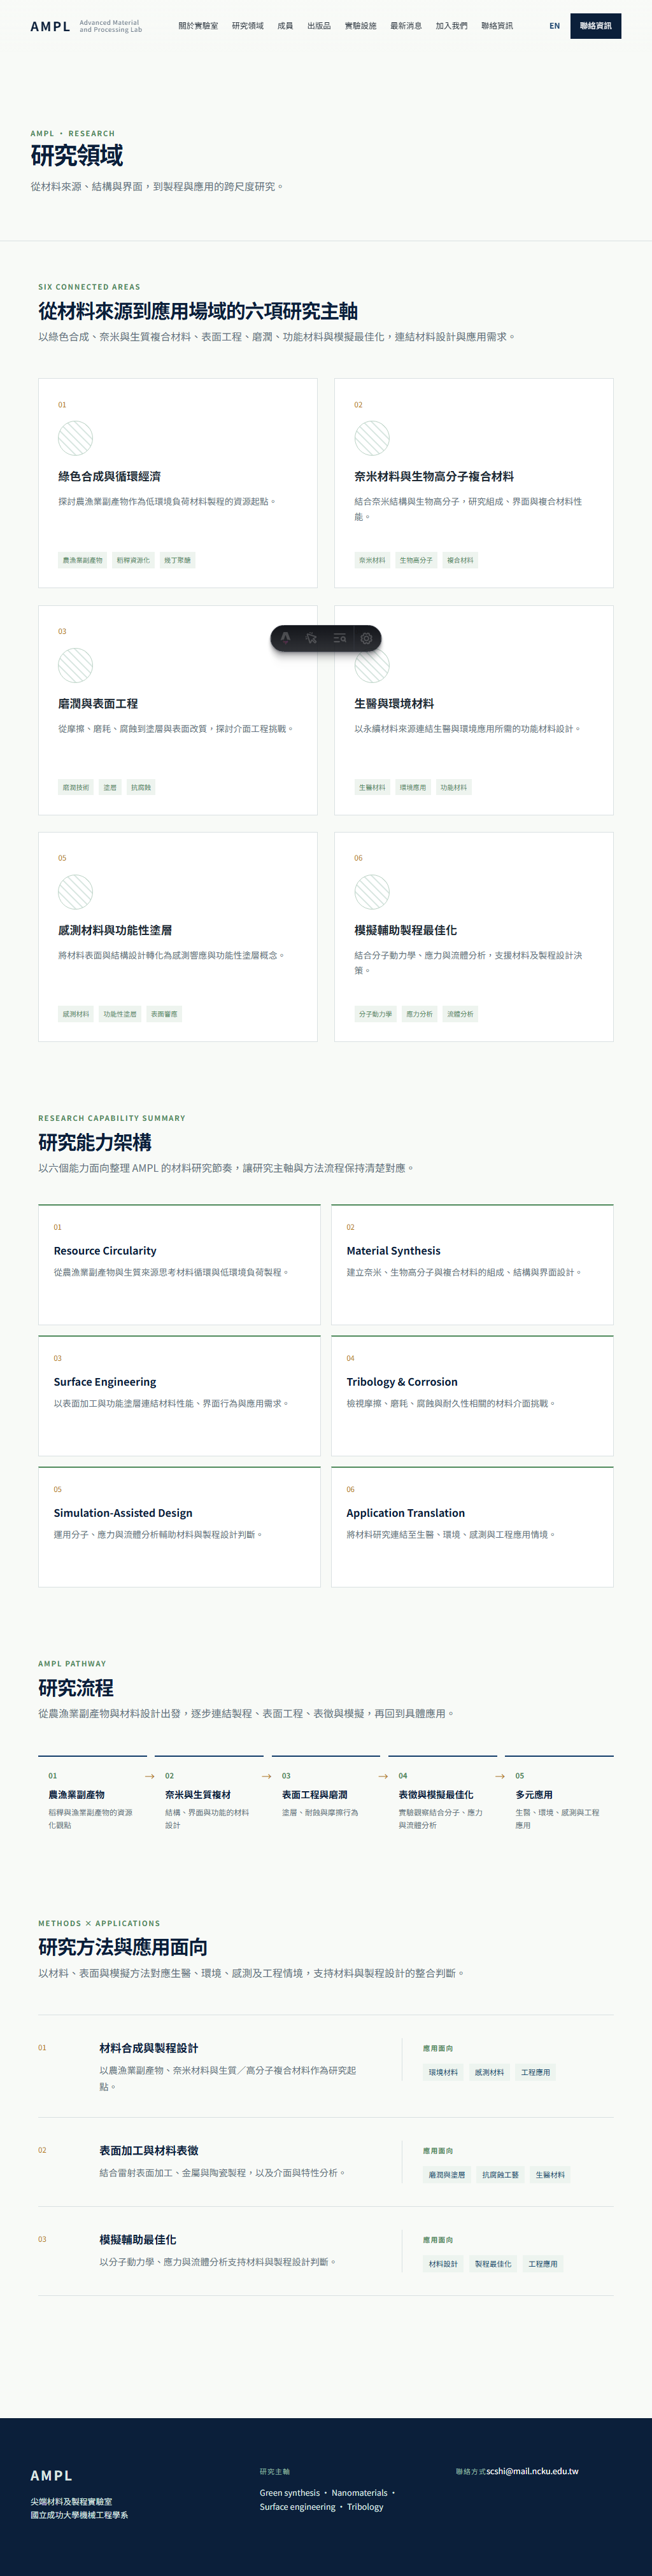
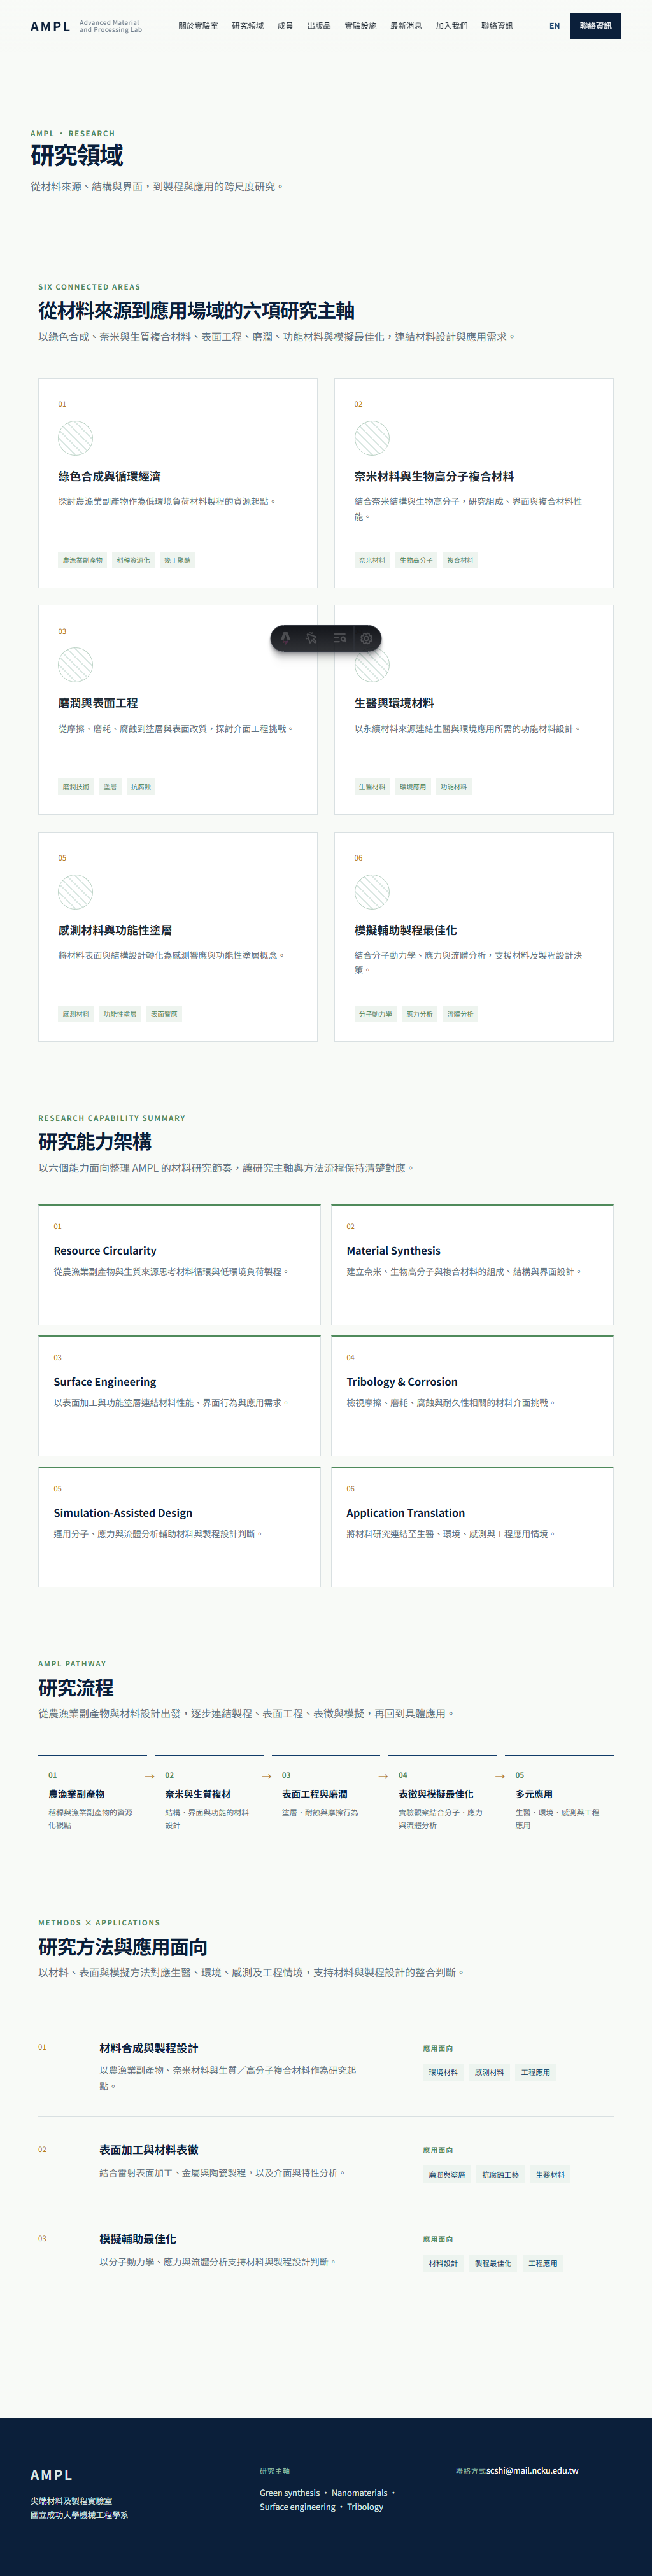
Keep Research lead heading on one line

diff --git a/tests/routes.spec.ts b/tests/routes.spec.ts
@@ -106,6 +106,14 @@ test('Research capability summary stays localized and responsive', async ({ page
   }
 });
 
+test('Chinese Research lead heading keeps its final character on the same desktop line', async ({ page }) => {
+  await page.setViewportSize({ width: 1280, height: 900 });
+  await page.goto('/research');
+  const heading = page.getByRole('heading', { name: '從材料來源到應用場域的六項研究主軸' });
+  const box = await heading.boundingBox();
+  expect(box?.height).toBeLessThan(75);
+});
+
 for (const width of [1440, 1280, 1024, 768, 430, 390, 360]) {
   test(`home has no horizontal overflow at ${width}px`, async ({ page }) => {
     await page.setViewportSize({ width, height: 900 });

diff --git a/src/styles/global.css b/src/styles/global.css
@@ -7,3 +7,4 @@ footer{background:var(--navy);color:#dce7e3;padding:4.5rem max(3rem,calc((100vw 
 .hero h1{font-size:clamp(2.55rem,4.65vw,5rem)}.hero .subhead{letter-spacing:.055em;font-weight:600;line-height:1.55}.button.primary:hover{background:#123c69;border-color:#123c69}.button.primary:focus-visible{background:#123c69;color:#fff}.profile-grid{display:grid;grid-template-columns:repeat(3,minmax(0,1fr));gap:1.25rem;margin:0 0 4rem}.profile-card{background:#fff;border:1px solid var(--line);border-top:2px solid var(--blue);padding:1.55rem;min-height:270px}.profile-card h3{margin:0 0 1rem;color:var(--navy);font-size:1.12rem}.profile-card ul{padding:0;margin:0;list-style:none}.profile-card li{position:relative;padding:.55rem 0 .55rem 1rem;color:var(--muted);font-size:.86rem;line-height:1.6}.profile-card li:before{content:'';position:absolute;left:0;top:1.12rem;width:4px;height:4px;border-radius:50%;background:var(--green)}.methods-applications{border-top:1px solid var(--line);margin-bottom:4rem}.methods-row{display:grid;grid-template-columns:58px minmax(0,1fr) minmax(180px,.7fr);gap:1.25rem;padding:1.6rem 0;border-bottom:1px solid var(--line);align-items:start}.methods-row .card-index{position:static;color:var(--gold);padding-top:.3rem}.methods-row h3{margin:0;color:var(--navy);font-size:1.08rem}.methods-row p{margin:.5rem 0 0;color:var(--muted);font-size:.9rem}.application-list{border-left:1px solid var(--line);padding-left:1.25rem}.application-list>span{font-size:.68rem;color:var(--green);font-weight:700;letter-spacing:.1em;text-transform:uppercase}.application-list ul{display:flex;flex-wrap:wrap;gap:.35rem;list-style:none;padding:0;margin:.55rem 0 0}.application-list li{color:var(--blue);font-size:.72rem;background:#edf4ef;padding:.22rem .45rem}.publication-links{display:flex;gap:.7rem;flex-wrap:wrap;padding:1rem;border-bottom:1px solid var(--line);background:#fff}.publication-links a{font-size:.8rem;color:var(--blue);font-weight:700;border-bottom:1px solid transparent}.publication-links a:hover,.publication-links a:focus-visible{border-bottom-color:var(--green)}.contact-grid--detailed{margin-bottom:1.25rem}.contact-grid--detailed article{min-height:140px}.external-map-link{display:inline-flex;align-items:center;gap:.5rem;margin-bottom:3rem}.external-map-link span,.publication-links span{font-size:1em}@media(max-width:900px){.profile-grid{grid-template-columns:1fr}.profile-card{min-height:0}.methods-row{grid-template-columns:44px 1fr}.application-list{grid-column:2;border-left:0;border-top:1px solid var(--line);padding:1rem 0 0}}@media(max-width:600px){.hero h1{font-size:2.55rem}.methods-row{grid-template-columns:1fr;gap:.65rem}.methods-row .card-index{padding:0}.application-list{grid-column:auto}.publication-links{display:grid;grid-template-columns:1fr}.contact-grid--detailed article{min-height:120px}.external-map-link{width:100%;justify-content:center}}
 .page-content .research-grid{grid-template-columns:repeat(2,minmax(0,1fr));gap:1.65rem;margin-top:3.25rem;margin-bottom:6.5rem}.page-content .research-card,.page-content .research-card:nth-child(n){grid-column:auto;min-height:330px;padding:1.9rem}.page-content .research-card .tag-list{padding-top:1.5rem;gap:.5rem}.page-content .research-card .tag-list span{white-space:normal}.page-content .pipeline{margin:3.25rem 0 7rem}.page-content .methods-applications{margin-top:3.25rem;margin-bottom:5rem}.methods-row{grid-template-columns:64px minmax(0,1fr) minmax(220px,.75fr);gap:2rem;padding:2.25rem 0}.methods-row p{max-width:52ch;line-height:1.75}.application-list{padding-left:2rem}.application-list ul{gap:.55rem;margin-top:.8rem}.application-list li{padding:.32rem .55rem;line-height:1.45}@media(min-width:1440px){.page-content .research-grid{grid-template-columns:repeat(3,minmax(0,1fr));gap:1.5rem}}@media(max-width:900px){.methods-row{grid-template-columns:48px minmax(0,1fr);gap:1.25rem;padding:2rem 0}.application-list{padding:1.25rem 0 0}.application-list ul{gap:.5rem}}@media(max-width:600px){.page-content .research-grid{grid-template-columns:1fr;gap:1rem;margin-top:2.25rem;margin-bottom:4.5rem}.page-content .research-card,.page-content .research-card:nth-child(n){min-height:285px;padding:1.5rem}.page-content .pipeline{margin:2.5rem 0 4.75rem}.methods-row{grid-template-columns:1fr;gap:.85rem;padding:1.7rem 0}.application-list{grid-column:auto}.application-list ul{gap:.45rem}}
 .capability-summary{list-style:none;padding:0;margin:2.75rem 0 6.5rem;display:grid;grid-template-columns:repeat(2,minmax(0,1fr));gap:1rem}.capability-summary li{background:#fff;border:1px solid var(--line);border-top:2px solid var(--green);padding:1.45rem;min-height:190px;display:flex;flex-direction:column;transition:transform .25s,box-shadow .25s}.capability-summary li:hover{transform:translateY(-4px);box-shadow:0 16px 30px #0b1f3a10}.capability-summary .card-index{position:static;color:var(--gold);font-size:.72rem}.capability-summary h3{color:var(--navy);font-size:1.02rem;line-height:1.35;margin:1rem 0 .65rem}.capability-summary p{color:var(--muted);font-size:.86rem;line-height:1.75;margin:0}@media(min-width:1440px){.capability-summary{grid-template-columns:repeat(3,minmax(0,1fr));gap:1.1rem}}@media(max-width:600px){.capability-summary{grid-template-columns:1fr;margin:2.25rem 0 4.75rem}.capability-summary li{min-height:0;padding:1.3rem}}
+.section-heading--research-lead{max-width:980px}.section-heading--research-lead h2{font-size:clamp(1.9rem,2.85vw,2.9rem)}@media(max-width:900px){.section-heading--research-lead{max-width:760px}.section-heading--research-lead h2{font-size:clamp(1.9rem,3vw,3rem)}}